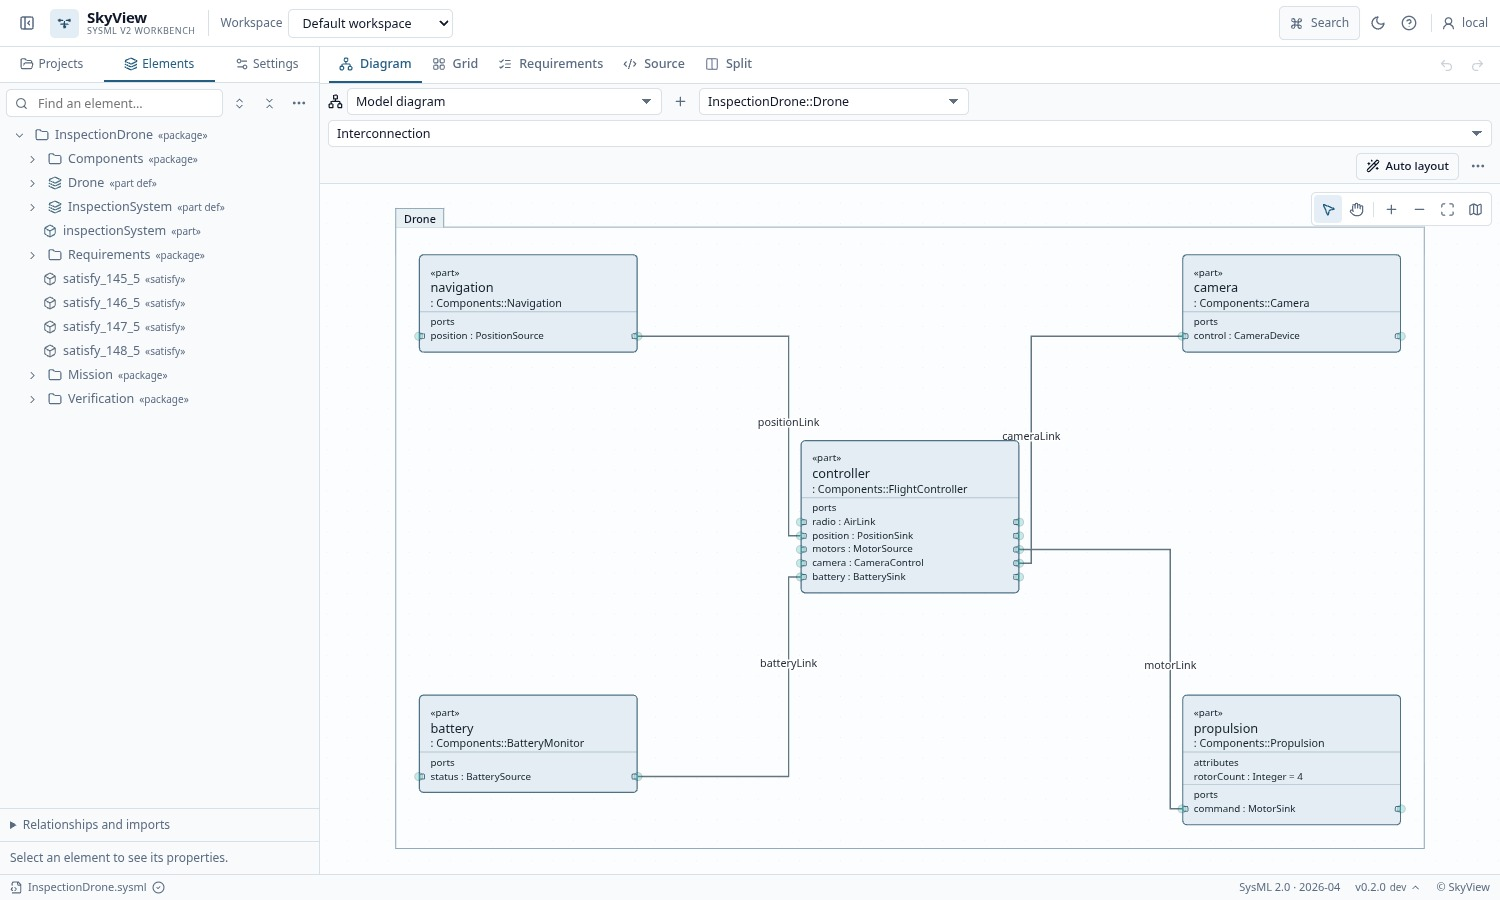
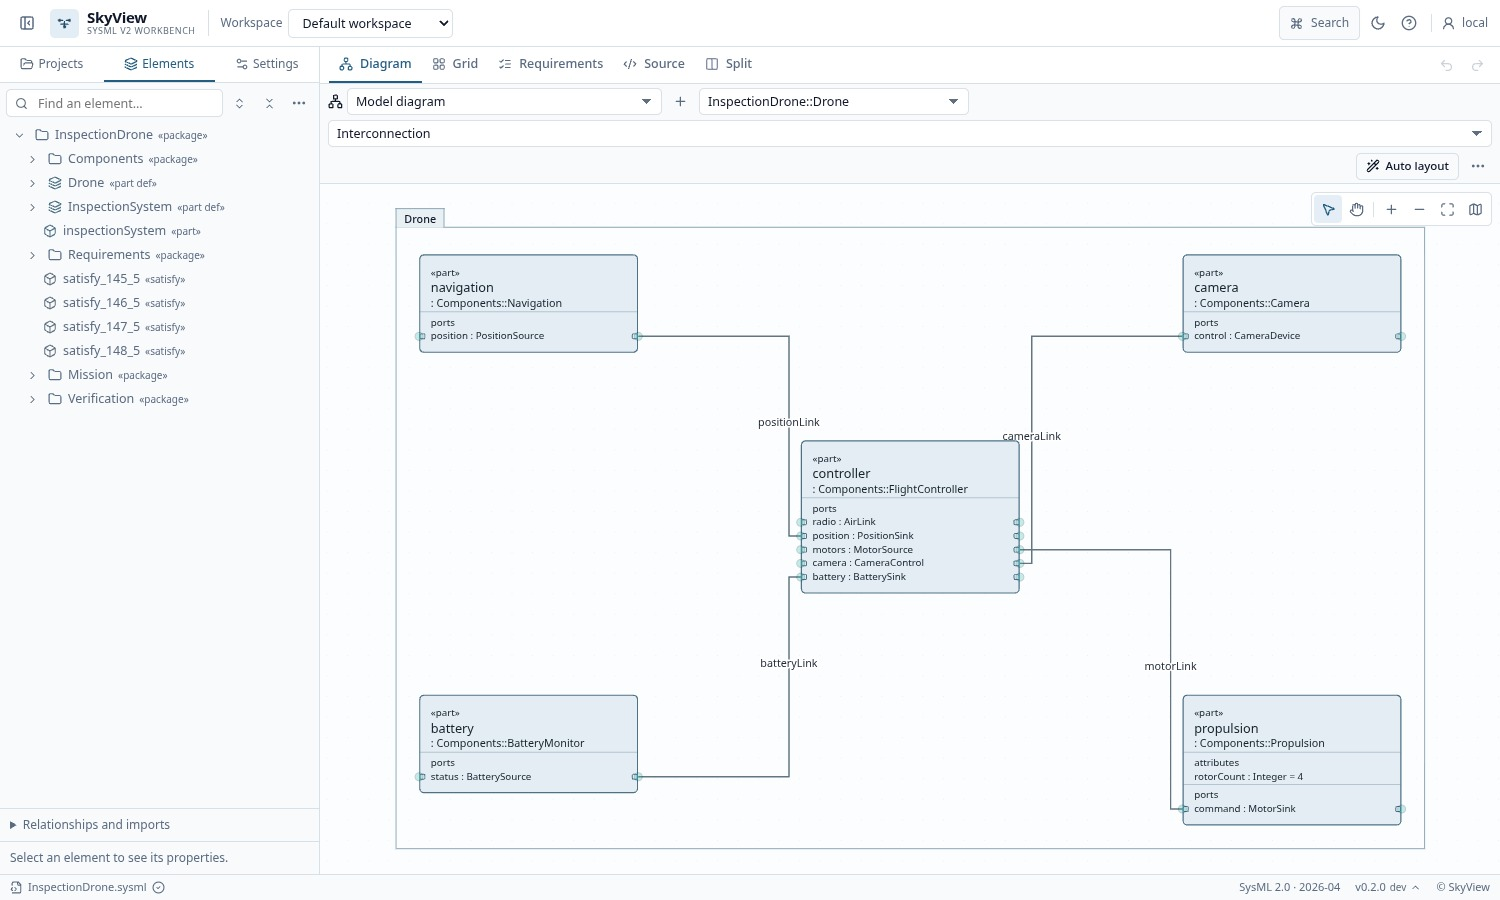
chore: address v0.2.0 repository review

diff --git a/README.md b/README.md
@@ -16,7 +16,7 @@ SkyView's design, behavior and appearance. Builds use published standards by def
 
 [![SkyView in light mode displaying the inspection drone's connected subsystems](docs/images/skyview-drone.jpg)](docs/images/skyview-drone.jpg)
 
-_Captured 28 November 2026 · SkyView v0.2.0 development build · uncommitted changes based on [75c936f5c53f](https://github.com/Rexus/SkyView/commit/75c936f5c53f0c08c39a6fb37483ddbc99794a98)._
+_Captured 28 November 2026 · SkyView v0.2.0 development build · revision `8126f95ea2b7`._
 
 Explore the [inspection drone example](examples/inspection-drone/): connected subsystems, four requirements,
 mission behavior and planned verification checks. The native-valid model loads without diagnostics.
@@ -172,6 +172,9 @@ API and Services specification has not been established [3].
 SkyView began as an experiment created by Carl Maier with assistance from a locally hosted language model,
 inspired by a demonstration of SysON. Its continued development aims to combine approachable visual
 modeling with dependable SysML v2 support.
+
+We use AI assistance in ongoing development and documentation. Project maintainers review changes
+and run the project checks before releases.
 
 ## License
 
